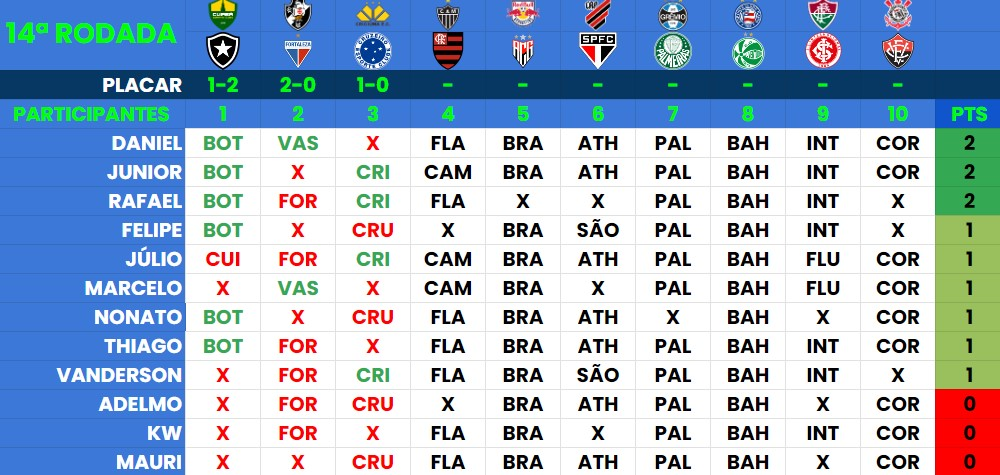
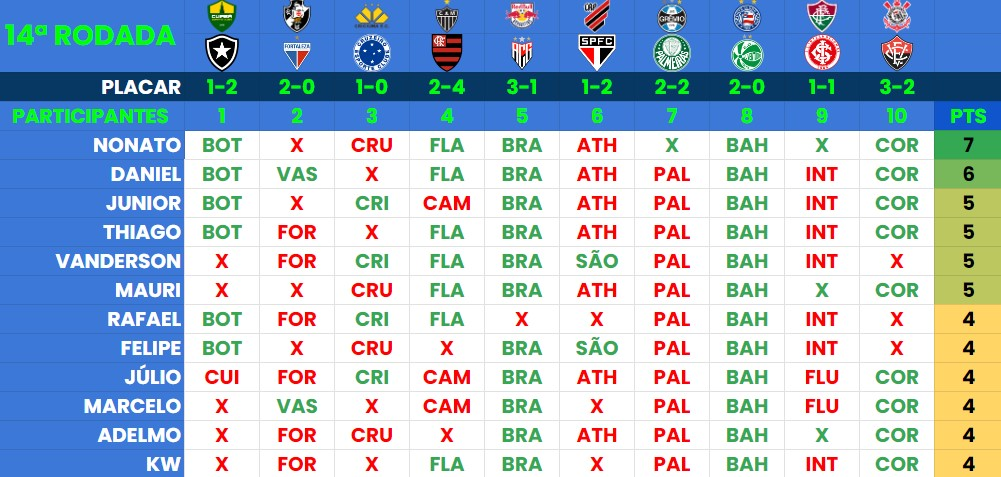
U

Changed region(s): [[0.0, 0.0, 1.0, 1.0]]

diff --git a/index.html b/index.html
@@ -51,10 +51,10 @@
           <img src="./assets/Round14.jpg" alt="Logo do Campeonato Brasileiro 2022" />
         </div>
         <div class="text">
-          <h2 class="title"><a href="./predictor.html">MERCADO FECHADO</a>
+          <h2 class="title"><a href="./predictor.html">Nonato vence a Rodada 14 com sete pontos</a>
           </h2>
           <p>
-            A bola tá rolando...
+            Adelmo e Júnior se igualam na liderança com 69 pontos cada.
           </p>
           <a class="button" href="./predictor.html">Resumo da 14ª Rodada</a>
         </div>
@@ -177,7 +177,7 @@
           <div class="content">
             <h2 class="rank"><small>#</small>1</h2>
             <h4>Adelmo</h4>
-            <p>65 Pontos</p>
+            <p>69 Pontos</p>
           </div>
         </div>
         <div class="list">
@@ -187,7 +187,7 @@
           <div class="content">
             <h2 class="rank"><small>#</small>2</h2>
             <h4>Júnior</h4>
-            <p>64 Pontos</p>
+            <p>69 Pontos</p>
           </div>
         </div>
         <div class="list">
@@ -197,7 +197,7 @@
           <div class="content">
             <h2 class="rank"><small>#</small>3</h2>
             <h4>KW</h4>
-            <p>63 Pontos</p>
+            <p>67 Pontos</p>
           </div>
         </div>
         <div class="list">
@@ -207,7 +207,7 @@
           <div class="content">
             <h2 class="rank"><small>#</small>4</h2>
             <h4>Marcelo</h4>
-            <p>60 Pontos</p>
+            <p>64 Pontos</p>
           </div>
         </div>
         <div class="list">
@@ -217,7 +217,7 @@
           <div class="content">
             <h2 class="rank"><small>#</small>5</h2>
             <h4>Mauri</h4>
-            <p>59 Pontos</p>
+            <p>64 Pontos</p>
           </div>
         </div>
         <div class="list">
@@ -227,17 +227,7 @@
           <div class="content">
             <h2 class="rank"><small>#</small>6</h2>
             <h4>Thiago</h4>
-            <p>58 Pontos</p>
-          </div>
-        </div>
-        <div class="list">
-          <div class="imgBx">
-            <img src="./assets/fotos/fortaleza.png">
-          </div>
-          <div class="content">
-            <h2 class="rank"><small>#</small>7</h2>
-            <h4>Júlio César</h4>
-            <p>57 Pontos</p>
+            <p>63 Pontos</p>
           </div>
         </div>
         <div class="list">
@@ -245,9 +235,19 @@
             <img src="./assets/fotos/corinthians.png">
           </div>
           <div class="content">
-            <h2 class="rank"><small>#</small>8</h2>
+            <h2 class="rank"><small>#</small>7</h2>
             <h4>Daniel</h4>
-            <p>57 Pontos</p>
+            <p>63 Pontos</p>
+          </div>
+        </div>
+        <div class="list">
+          <div class="imgBx">
+            <img src="./assets/fotos/fortaleza.png">
+          </div>
+          <div class="content">
+            <h2 class="rank"><small>#</small>8</h2>
+            <h4>Júlio César</h4>
+            <p>61 Pontos</p>
           </div>
         </div>
         <div class="list">
@@ -257,17 +257,7 @@
           <div class="content">
             <h2 class="rank"><small>#</small>9</h2>
             <h4>Felipe</h4>
-            <p>57 Pontos</p>
-          </div>
-        </div>
-        <div class="list">
-          <div class="imgBx">
-            <img src="./assets/fotos/palmeiras.png">
-          </div>
-          <div class="content">
-            <h2 class="rank"><small>#</small>10</h2>
-            <h4>Rafael</h4>
-            <p>56 Pontos</p>
+            <p>61 Pontos</p>
           </div>
         </div>
         <div class="list">
@@ -275,9 +265,19 @@
             <img src="./assets/fotos/ceará.png">
           </div>
           <div class="content">
-            <h2 class="rank"><small>#</small>11</h2>
+            <h2 class="rank"><small>#</small>10</h2>
             <h4>Nonato</h4>
-            <p>54 Pontos</p>
+            <p>61 Pontos</p>
+          </div>
+        </div>
+        <div class="list">
+          <div class="imgBx">
+            <img src="./assets/fotos/palmeiras.png">
+          </div>
+          <div class="content">
+            <h2 class="rank"><small>#</small>11</h2>
+            <h4>Rafael</h4>
+            <p>60 Pontos</p>
           </div>
         </div>
         <div class="list">
@@ -287,7 +287,7 @@
           <div class="content">
             <h2 class="rank"><small>#</small>12</h2>
             <h4>Vanderson</h4>
-            <p>52 Pontos</p>
+            <p>57 Pontos</p>
           </div>
         </div>
       </div>
